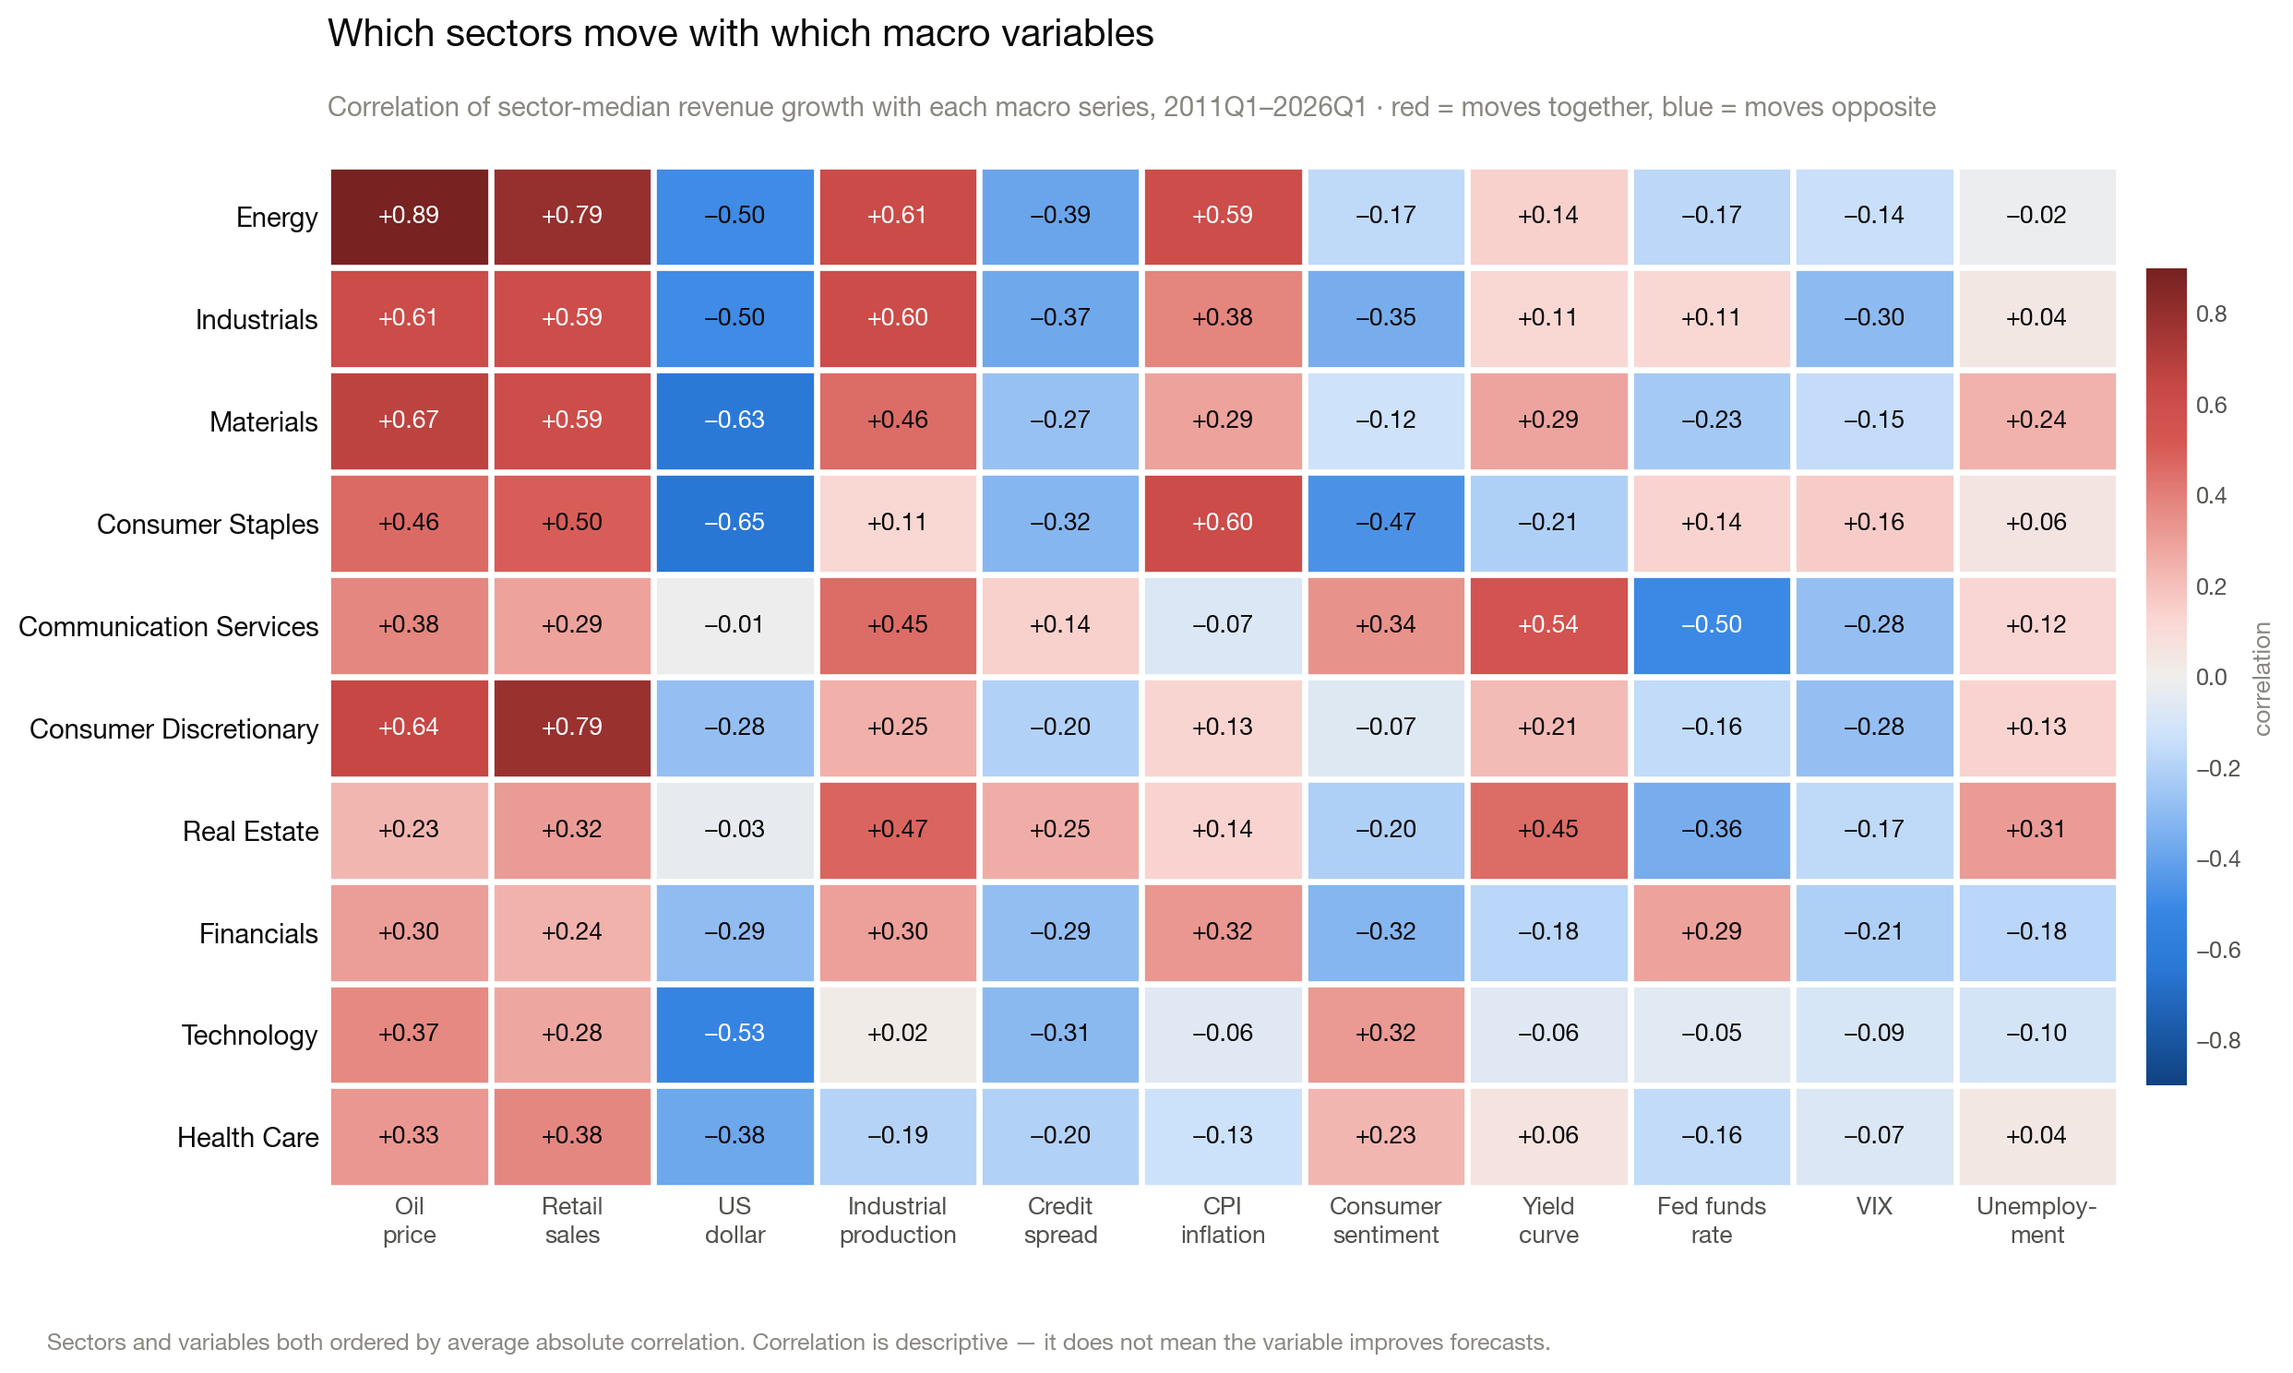
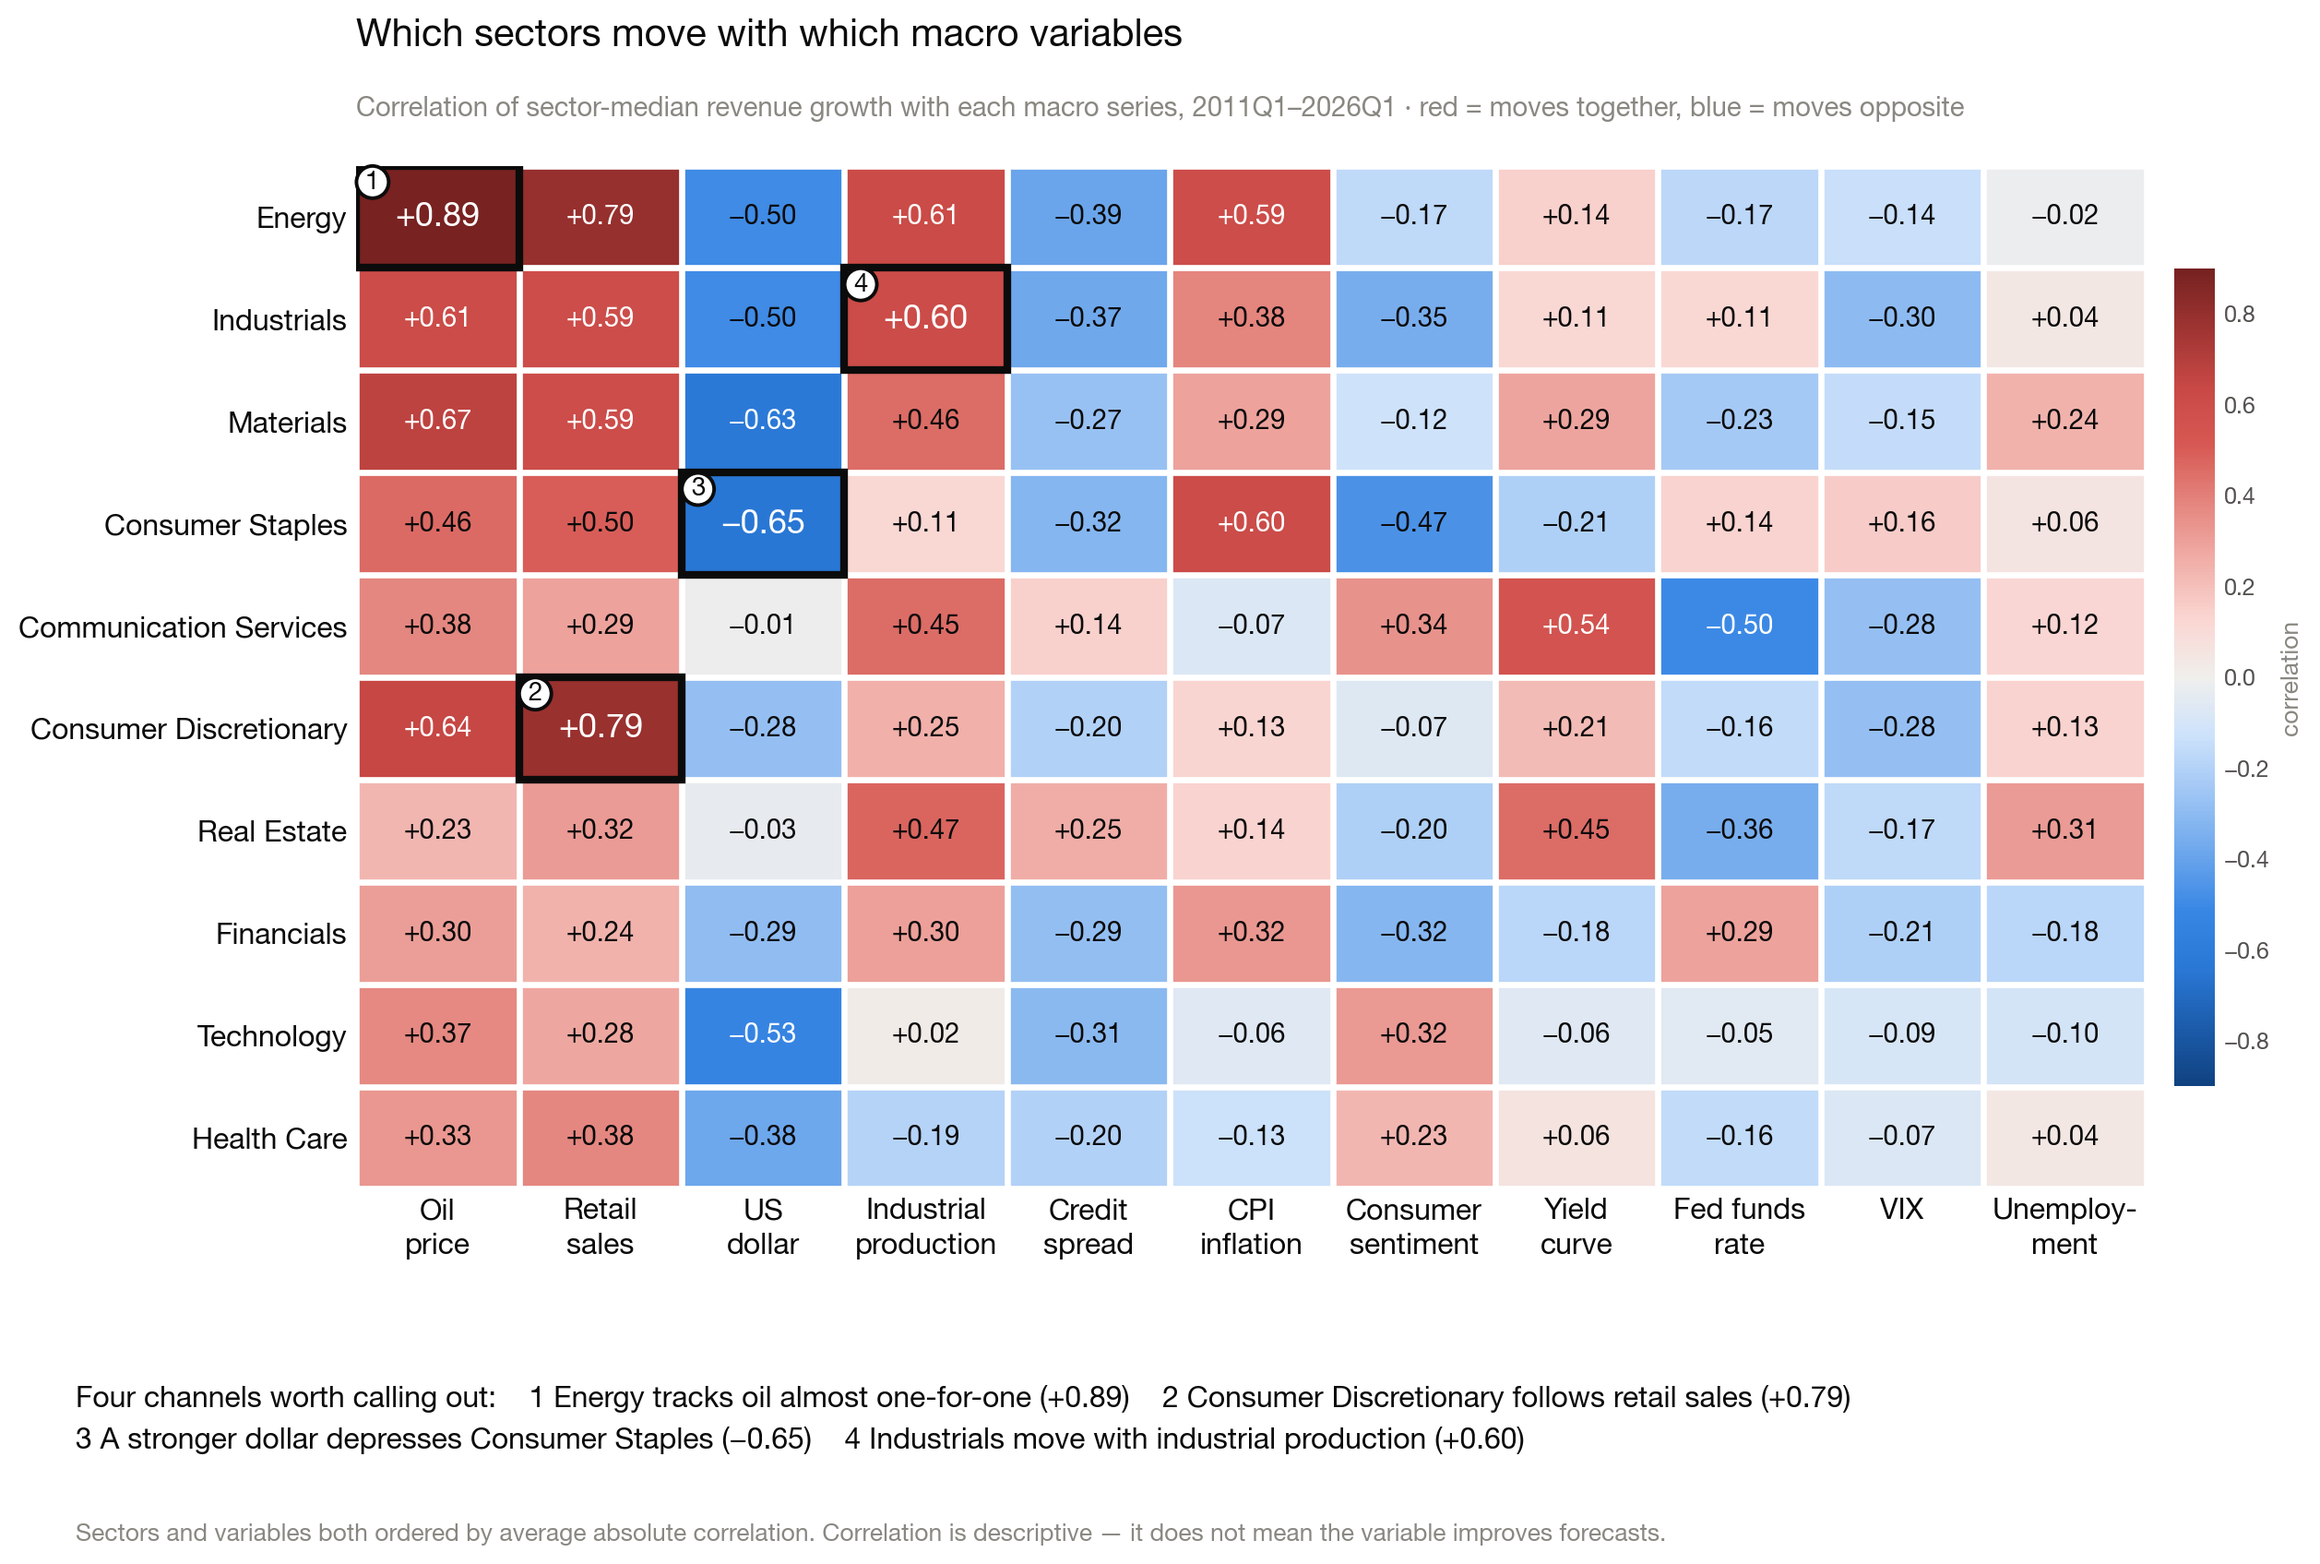
charts: individual macro variables + heatmap callouts, larger/darker labels
3a_macro_importance — replaced the five-theme ablation view with the top 12
individual variables per horizon, each labelled with how far back the reading
comes from. Bar length is the per-variable contribution; colour carries the
GROUP ablation verdict (red = group significantly improves forecasts, grey =
group not significant), because with 49 quarters a per-variable ablation is
underpowered — so "heavily used" and "proven" stay visually separate rather
than implying per-variable p-values. Legend is built from the categories that
actually appear: no inflation variable reaches either top 12, so the "hurts"
swatch would otherwise promise a bar that isn't there.

1_sector_macro_heatmap — axis labels darker (near-black) and larger; four key
cells boxed with numbered badges and a caption naming each channel: Energy x
oil +0.89, Cons Disc x retail sales +0.79, Cons Staples x dollar -0.65,
Industrials x industrial production +0.60. Cell values enlarged, callout
values bold.

diff --git a/make_charts.py b/make_charts.py
@@ -71,21 +71,38 @@ def chart_heatmap():
              "Fed funds rate": "Fed funds\nrate", "VIX": "VIX", "Unemployment": "Unemploy-\nment"}
     ax.set_xticks(range(len(c["macros"])))
     ax.set_xticklabels([SHORT.get(m, m) for m in c["macros"]],
-                       fontsize=9.5, color=INK2, linespacing=1.35)
+                       fontsize=11.5, color=INK, fontweight="600", linespacing=1.35)
     ax.set_yticks(range(len(c["sectors"])))
-    ax.set_yticklabels(c["sectors"], fontsize=10.5, color=INK)
+    ax.set_yticklabels(c["sectors"], fontsize=11.5, color=INK, fontweight="600")
     ax.set_xticks(np.arange(-.5, len(c["macros"]), 1), minor=True)
     ax.set_yticks(np.arange(-.5, len(c["sectors"]), 1), minor=True)
     ax.grid(which="minor", color="white", linewidth=2.4)
     ax.tick_params(which="minor", length=0)
     for s in ax.spines.values():
         s.set_visible(False)
+    # Four callouts: one per economic channel (commodity, consumer demand, FX,
+    # industrial activity) so the eye lands on a story rather than 110 numbers.
+    KEY = {("Energy", "Oil price (YoY)"): "1",
+           ("Consumer Discretionary", "Retail sales (YoY)"): "2",
+           ("Consumer Staples", "US dollar (YoY)"): "3",
+           ("Industrials", "Industrial prod (YoY)"): "4"}
+    keyed = {(c["sectors"].index(s), c["macros"].index(m)): n
+             for (s, m), n in KEY.items()}
     for i in range(M.shape[0]):
         for j in range(M.shape[1]):
             v = M[i, j]
-            ax.text(j, i, f"{v:+.2f}".replace("+", "+").replace("-", "−"),
-                    ha="center", va="center", fontsize=9.5,
+            hot = (i, j) in keyed
+            ax.text(j, i, f"{v:+.2f}".replace("-", "−"),
+                    ha="center", va="center",
+                    fontsize=13 if hot else 10.5,
+                    fontweight="700" if hot else "normal",
                     color="white" if abs(v) >= 0.50 else INK)
+    for (i, j), n in keyed.items():
+        ax.add_patch(plt.Rectangle((j - .5, i - .5), 1, 1, fill=False,
+                                   edgecolor=INK, linewidth=3.0, zorder=5))
+        ax.text(j - .40, i - .34, n, ha="center", va="center", fontsize=10,
+                fontweight="700", color=INK, zorder=6,
+                bbox=dict(boxstyle="circle,pad=0.16", fc="white", ec=INK, lw=1.4))
     cb = fig.colorbar(im, ax=ax, fraction=0.022, pad=0.015)
     cb.outline.set_visible(False)
     cb.ax.tick_params(labelsize=9, color=MUTED)
@@ -94,10 +111,17 @@ def chart_heatmap():
           "Correlation of sector-median revenue growth with each macro series, "
           "2011Q1–2026Q1 · red = moves together, blue = moves opposite",
           y=1.055)
-    fig.text(0.008, -0.012,
+    fig.text(0.008, -0.085,
+             "Four channels worth calling out:    "
+             "1 Energy tracks oil almost one-for-one (+0.89)    "
+             "2 Consumer Discretionary follows retail sales (+0.79)\n"
+             "3 A stronger dollar depresses Consumer Staples (−0.65)    "
+             "4 Industrials move with industrial production (+0.60)",
+             fontsize=11.5, color=INK, linespacing=1.6)
+    fig.text(0.008, -0.155,
              "Sectors and variables both ordered by average absolute correlation. "
              "Correlation is descriptive — it does not mean the variable improves forecasts.",
-             fontsize=9, color=MUTED)
+             fontsize=9.5, color=MUTED)
     save(fig, "1_sector_macro_heatmap")
 
 
@@ -207,47 +231,72 @@ def chart_blend():
 
 # =========================================================== 3a. themes
 def chart_themes():
-    d = D["themes"]
-    order = sorted(d, key=lambda x: x["da"])
-    names = [x["n"] for x in order]
-    y = np.arange(len(order))
-    fig, axes = plt.subplots(1, 2, figsize=(12.4, 5.0), sharey=True)
-    for ax, (k, pk, ttl) in zip(axes, [("dq", "pq", "Next quarter"),
-                                       ("da", "pa", "One year ahead")]):
-        vals = [x[k] for x in order]
-        ps = [x[pk] for x in order]
-        cols = [(R_MAIN if v >= 0 else B_MAIN) for v in vals]
-        alphas = [1.0 if p < 0.05 else 0.45 for p in ps]
-        for i, (v, c, a) in enumerate(zip(vals, cols, alphas)):
-            ax.barh(i, v, color=c, alpha=a, height=0.6)
-        for i, (v, p) in enumerate(zip(vals, ps)):
-            off = 0.00016 if v >= 0 else -0.00016
-            ax.text(v + off, i, f"p={p:.3f}", va="center",
-                    ha="left" if v >= 0 else "right", fontsize=9.5,
-                    family="monospace", color=INK if p < 0.05 else MUTED)
-        ax.axvline(0, color=INK, linewidth=1.0)
-        ax.set_title(ttl, loc="left", fontsize=12, color=INK, fontweight="600", pad=8)
-        ax.set_xlim(-0.0034, 0.0044)
+    """Individual macro variables, ranked by how much the model uses them.
+
+    Bar length is per-variable (mean |SHAP|). Colour carries the *group*
+    ablation verdict — red where the variable's group significantly improves
+    forecasts, blue where it significantly hurts, grey where its group showed
+    no significant effect. Significance is group-level by design: with 49
+    quarters a per-variable ablation is underpowered, so the honest split is
+    'this variable is heavily used' (length) versus 'its group is proven'
+    (colour).
+    """
+    th = {t["n"]: t for t in D["themes"]}
+    KEYMAP = {"activity_demand": "Activity & demand", "inflation": "Inflation",
+              "rates_curve": "Rates & curve", "risk_credit": "Risk & credit",
+              "commodities_fx": "Commodities & FX"}
+
+    def colour(theme, panel):
+        t = th[KEYMAP[theme]]
+        delta, p = (t["dq"], t["pq"]) if panel == "q" else (t["da"], t["pa"])
+        if p >= 0.05:
+            return "#b9b7b0", 1.0            # group not proven either way
+        return (R_MAIN if delta > 0 else B_MAIN), 1.0
+
+    used = set()
+    fig, axes = plt.subplots(1, 2, figsize=(15.0, 7.0))
+    for ax, (key, panel, ttl) in zip(axes, [("quarterly", "q", "Next quarter"),
+                                            ("annual", "a", "One year ahead")]):
+        d = list(reversed(D["feat"][key]))
+        used.update(colour(x["th"], panel)[0] for x in d)
+        labs = [f"{x['v']}  ·  {x['lag']} qtr{'' if x['lag']==1 else 's'} back" for x in d]
+        vals = [x["s"] for x in d]
+        cols = [colour(x["th"], panel)[0] for x in d]
+        ax.barh(np.arange(len(d)), vals, color=cols, height=0.68)
+        for i, v in enumerate(vals):
+            ax.text(v + max(vals) * 0.018, i, f"{v:.2f}%", va="center",
+                    fontsize=12, color=INK, family="monospace")
+        ax.set_yticks(np.arange(len(d)))
+        ax.set_yticklabels(labs, fontsize=12, color=INK)
+        ax.set_xlim(0, max(vals) * 1.20)
+        ax.set_title(ttl, loc="left", fontsize=14, color=INK, fontweight="600", pad=10)
+        ax.set_xlabel("share of what the model uses", fontsize=11.5, color=INK2)
         ax.xaxis.grid(True, color=GRID, linewidth=0.8)
         ax.set_axisbelow(True)
-        ax.set_xticklabels([])
-        for s in ("top", "right", "left", "bottom"):
+        for s in ("top", "right", "left"):
             ax.spines[s].set_visible(False)
-    axes[0].set_yticks(y)
-    axes[0].set_yticklabels(names, fontsize=11)
-    axes[0].invert_yaxis()
-    fig.suptitle("Which macro variables actually improve forecasts",
-                 x=0.008, y=1.15, ha="left", fontsize=15, fontweight="600", color=INK)
-    fig.text(0.008, 1.055,
-             "Change in forecast error when each group is added alone · "
-             "solid = statistically significant (p<0.05)",
-             fontsize=10.5, color=MUTED)
-    fig.text(0.5, -0.015, "<-- makes forecasts worse    |    improves forecasts -->",
-             ha="center", fontsize=10, color=MUTED)
-    fig.text(0.008, -0.10,
-             "Only demand-activity indicators earn their place, and only at the one-year horizon. "
-             "Inflation actively hurts.\nQuarter-clustered Diebold–Mariano test across 49 quarters.",
-             fontsize=9, color=MUTED)
+        ax.tick_params(axis="x", labelsize=11, colors=INK2)
+    fig.subplots_adjust(wspace=0.62)
+    # only label categories that actually appear (no inflation variable reaches
+    # either top 12, so the "hurts" swatch would otherwise be an empty promise)
+    entries = [(R_MAIN, "Group significantly improves forecasts"),
+               (B_MAIN, "Group significantly hurts forecasts"),
+               ("#b9b7b0", "Group shows no significant effect")]
+    handles = [Patch(facecolor=c, label=l) for c, l in entries if c in used]
+    fig.legend(handles=handles, loc="upper center", bbox_to_anchor=(0.5, 0.035),
+               ncol=len(handles), frameon=False, fontsize=12)
+    fig.suptitle("Which individual macro variables the model relies on",
+                 x=0.008, y=1.10, ha="left", fontsize=17, fontweight="600", color=INK)
+    fig.text(0.008, 1.035,
+             "Top 12 variables by contribution, with how far back the reading comes from · "
+             "colour = whether that variable's group passed the ablation test",
+             fontsize=12, color=INK2)
+    fig.text(0.008, -0.075,
+             "Next quarter, no macro group is statistically significant — the model leans on oil and "
+             "retail-sales momentum, but none of it provably helps.\nAt one year, industrial production "
+             "two quarters back is the single largest macro input, and its group is significant "
+             "(p=0.044); inflation significantly hurts (p=0.034).",
+             fontsize=10.5, color=MUTED, linespacing=1.5)
     save(fig, "3a_macro_importance")
 
 
